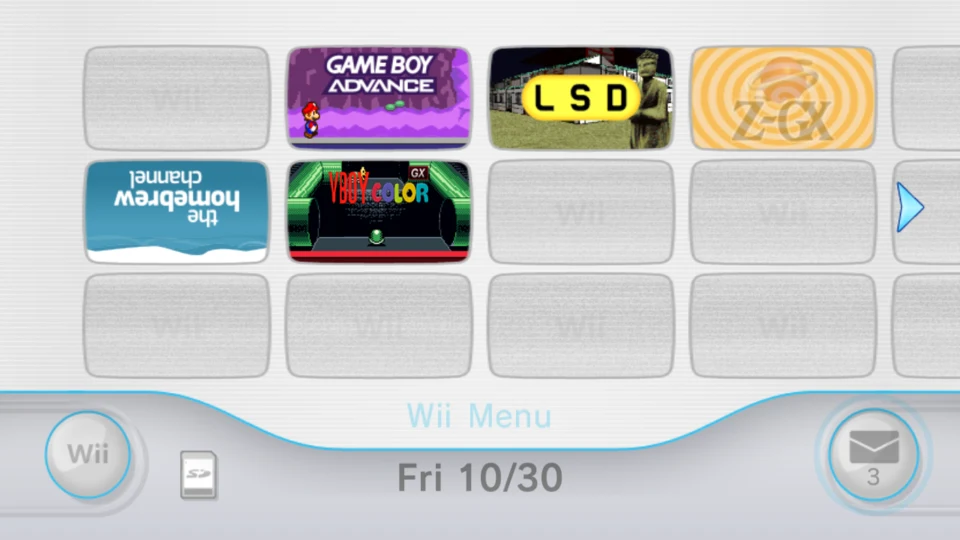
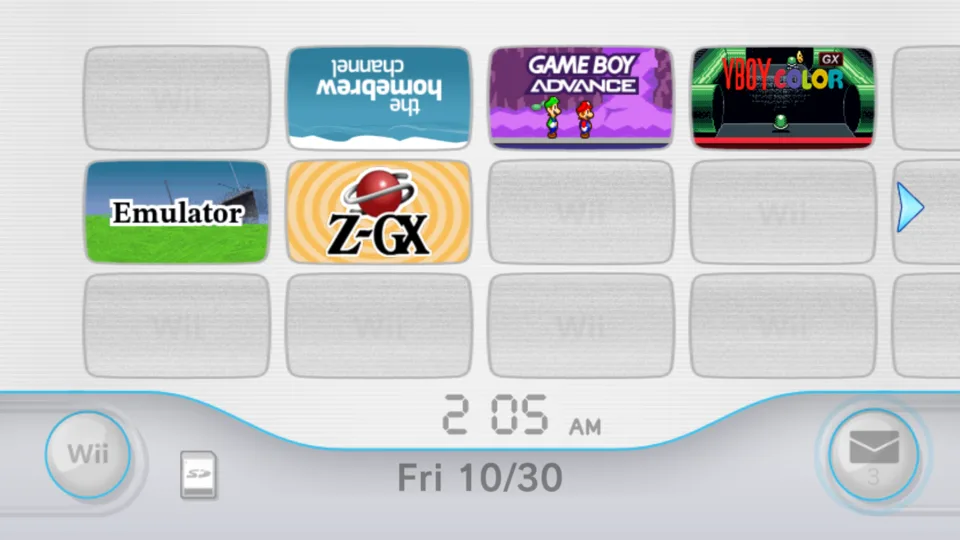
the wii menu opens with the upside-down homebrew channel, mgba gx and vboy color gx beside the blank channel

Changed region(s): [[0.0625, 0.0593, 0.9375, 0.5037], [0.4062, 0.7111, 0.625, 0.8296]]

diff --git a/tools/wii/sync_channels.py b/tools/wii/sync_channels.py
@@ -42,7 +42,8 @@ LOCAL_WADS = {
     "empty-slot-creator": Path.home()
     / "Documents/Dev/wii-homebrew/Empty-Slot-Forwarder/Empty Slot - ESLT [cmyksoda].wad",
 }
-FIRST = "empty-slot-creator"
+# Jaxi's slot order, from the top left; channels not listed follow, oldest first.
+ORDER = ["empty-slot-creator", "hbc-upside-down", "mgba-gx-forwarder-channel", "vboy-color-gx-forwarder-channel"]
 
 
 def gh(*args):
@@ -156,7 +157,7 @@ def release_wad(repo):
 def main():
     repos = gh("repo", "list", OWNER, "--topic", "wii-forwarder", "--visibility", "public",
                "--json", "name,createdAt,url")
-    repos.sort(key=lambda r: (r["name"] != FIRST, r["createdAt"]))
+    repos.sort(key=lambda r: (ORDER.index(r["name"]) if r["name"] in ORDER else len(ORDER), r["createdAt"]))
     channels = []
     for repo in repos:
         release, asset, wad = release_wad(repo["name"])
